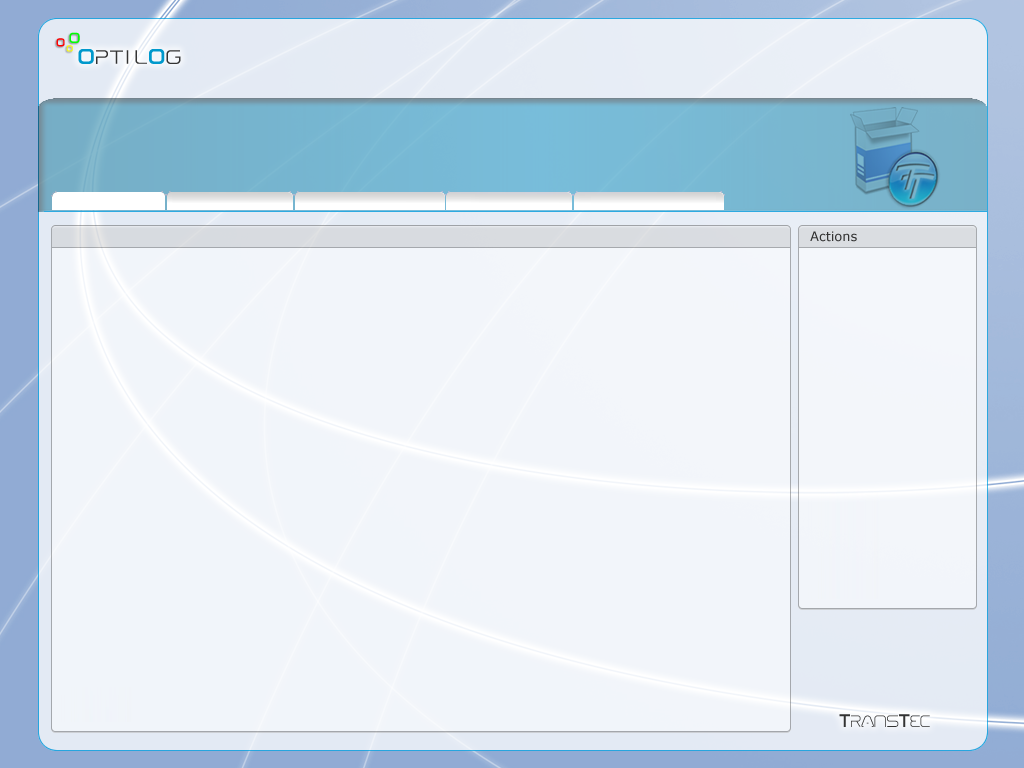
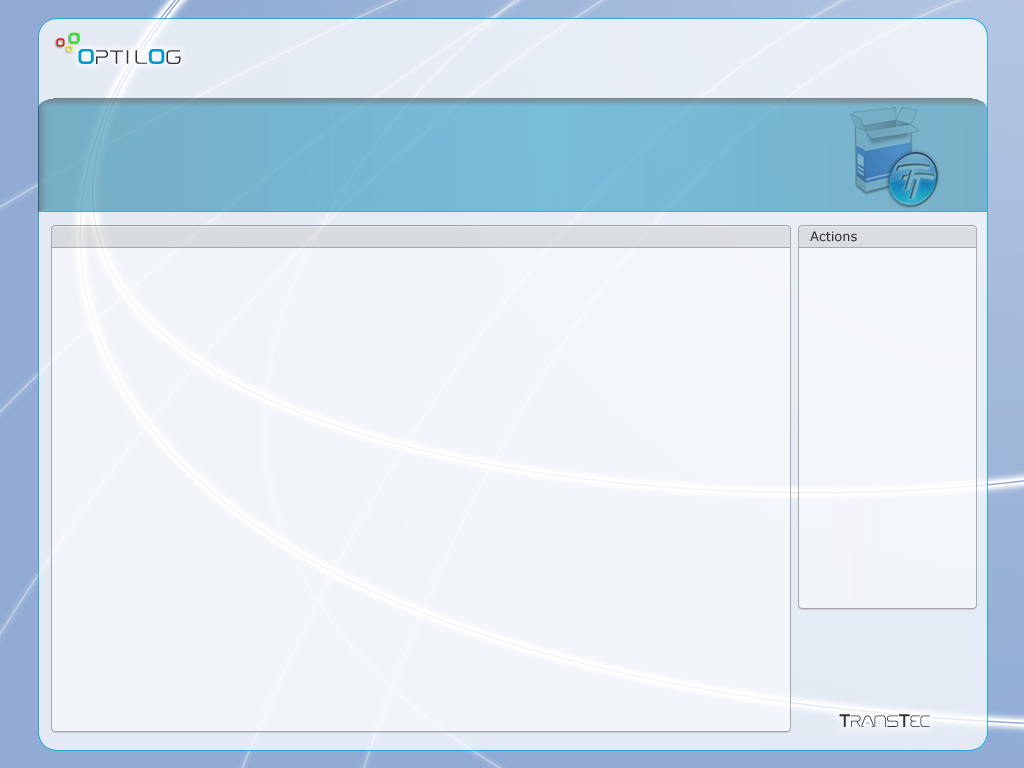
Customisation avancee des onglets de l'interface superviseur !

Changed region(s): [[0.0312, 0.25, 0.7188, 0.2812]]

diff --git a/trunk/ihm/supervision/Sup_CustomTabbedPane.java b/trunk/ihm/supervision/Sup_CustomTabbedPane.java
@@ -1,13 +1,19 @@
 package ihm.supervision;
 
+import javax.swing.ImageIcon;
 import javax.swing.plaf.basic.BasicTabbedPaneUI;
 import java.awt.*;
 
 public class Sup_CustomTabbedPane extends BasicTabbedPaneUI{
-	
+
 	protected void paintTabBorder(Graphics g, int tabPlacement, int tabIndex, int x, int y, int w, int h, boolean isSelected)
 	{
-		g.setColor(Color.BLACK);
+/*		g.setColor(new Color(0,0,0,0));
+		g.drawLine(x, y, x, y + h);
+		g.drawLine(x + w , y, x + w, y + h);*/
+
+		
+		/*		g.setColor(Color.BLACK);
 		g.drawLine(x, y, x, y + h);
 		g.drawLine(x, y, x + w - (h / 2), y);
 		g.drawLine(x + w - (h / 2), y, x + w + (h / 2), y + h);
@@ -20,12 +26,18 @@ public class Sup_CustomTabbedPane extends BasicTabbedPaneUI{
 	
 			g.setColor(shadow);
 			g.drawLine(x + w - (h / 2), y + 1, x + w + (h / 2)-1, y + h);
-		}
+		}*/
 	}
 
 	protected void paintTabBackground(Graphics g, int tabPlacement, int tabIndex, int x, int y, int w, int h, boolean isSelected)
 	{
-		Polygon shape = new Polygon();
+		ImageIcon img = new ImageIcon("images/supervision/onglet.png");
+		ImageIcon img_onclick = new ImageIcon("images/supervision/onglet_onclick.png");
+		
+		if(isSelected) g.drawImage(img_onclick.getImage(), x, y, null);
+		else g.drawImage(img.getImage(), x, y, null);
+
+		/*Polygon shape = new Polygon();
 	
 		shape.addPoint(x, y + h);
 		shape.addPoint(x, y);
@@ -42,7 +54,7 @@ public class Sup_CustomTabbedPane extends BasicTabbedPaneUI{
 		}
 	
 		g.setColor(tabPane.getBackground());
-		g.fillPolygon(shape);
+		g.fillPolygon(shape);*/
 	}
 
 	
@@ -53,25 +65,25 @@ public class Sup_CustomTabbedPane extends BasicTabbedPaneUI{
 
 	protected int calculateTabHeight(int tabPlacement, int tabIndex, int fontHeight)
 	{
-		int vHeight = fontHeight;
+		/*int vHeight = fontHeight;
 		if (vHeight % 2 > 0)
 		{
 			vHeight += 1;
-		}
-		return vHeight;
+		}*/
+		return 27;//vHeight;
 	}
 	
 	protected int calculateTabWidth(int tabPlacement, int tabIndex, FontMetrics metrics)
 	{
-		return super.calculateTabWidth(tabPlacement, tabIndex, metrics) + metrics.getHeight();
+		return 121;//super.calculateTabWidth(tabPlacement, tabIndex, metrics) + metrics.getHeight();
 	}
 
 	protected void installDefaults()
 	{
 		super.installDefaults();
-		tabAreaInsets.left = 4;
+		tabAreaInsets.left = 0;
 		selectedTabPadInsets = new Insets(0, 0, 0, 0);
-		tabInsets = selectedTabPadInsets;
+		tabInsets = new Insets(0, 0, 0, 0);
 	}
 
 	protected int getTabLabelShiftY(int tabPlacement, int tabIndex, boolean isSelected)
@@ -90,7 +102,7 @@ public class Sup_CustomTabbedPane extends BasicTabbedPaneUI{
 	}*/
 	protected void paintContentBorderTopEdge(Graphics g, int tabPlacement, int selectedIndex, int x, int y, int w, int h)
 	{
-		Rectangle selectedRect = selectedIndex < 0 ? null : getTabBounds(selectedIndex, calcRect);
+		/*		Rectangle selectedRect = selectedIndex < 0 ? null : getTabBounds(selectedIndex, calcRect);
 	
 		selectedRect.width = selectedRect.width + (selectedRect.height / 2) - 1;
 	
@@ -106,7 +118,7 @@ public class Sup_CustomTabbedPane extends BasicTabbedPaneUI{
 		g.drawLine(selectedRect.x + selectedRect.width + 2, y + 1, x + w, y + 1);
 	
 		g.setColor(shadow);
-		g.drawLine(selectedRect.x + selectedRect.width, y, selectedRect.x + selectedRect.width + 1, y + 1);
+		g.drawLine(selectedRect.x + selectedRect.width, y, selectedRect.x + selectedRect.width + 1, y + 1);*/
 	}
 
 	protected void paintContentBorderRightEdge(Graphics g, int tabPlacement, int selectedIndex, int x, int y, int w, int h)
@@ -126,7 +138,7 @@ public class Sup_CustomTabbedPane extends BasicTabbedPaneUI{
 
 	protected Insets getContentBorderInsets(int tabPlacement)
 	{
-		return new Insets(2, 0, 0, 0);
+		return new Insets(0, 0, 0, 0);
 	}
 
 
